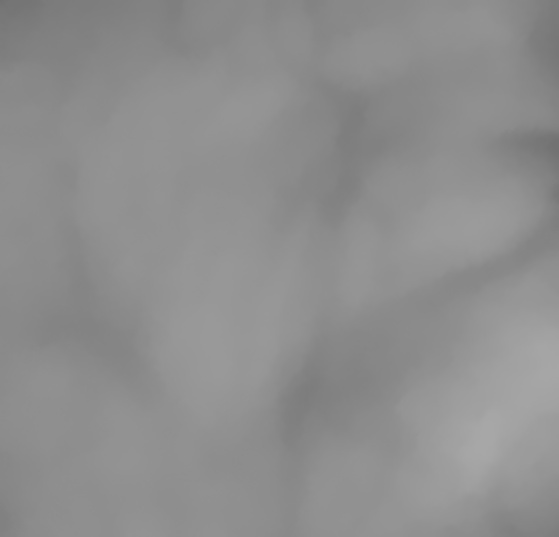
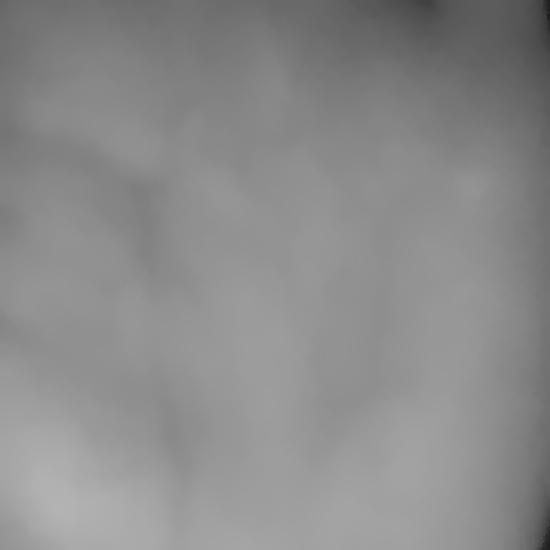
updates

diff --git a/palm.py b/palm.py
@@ -1,58 +1,61 @@
 import cv2
 import numpy as np
 
-img = cv2.imread('image.jpg')
+hand = "left"
 
-# noise
-gray = cv2.cvtColor(img, cv2.COLOR_BGR2GRAY)
-noise = cv2.fastNlMeansDenoising(gray)
-noise = cv2.cvtColor(noise, cv2.COLOR_GRAY2BGR)
-cv2.imwrite("img/noise.jpg", noise)
+for i in range(20):
+    print i
+    img = cv2.imread(hand + 'Edited/' + hand + str(i) + '.jpg')
 
-# equalist hist
-kernel = np.ones((5,5),np.uint8)
-img = cv2.morphologyEx(noise, cv2.MORPH_OPEN, kernel)
-img_yuv = cv2.cvtColor(img, cv2.COLOR_BGR2YUV)
-img_yuv[:,:,0] = cv2.equalizeHist(img_yuv[:,:,0])
-img_output = cv2.cvtColor(img_yuv, cv2.COLOR_YUV2BGR)
-cv2.imwrite("img/equalizeHist.jpg", img_output)
+    # noise
+    gray = cv2.cvtColor(img, cv2.COLOR_BGR2GRAY)
+    noise = cv2.fastNlMeansDenoising(gray)
+    noise = cv2.cvtColor(noise, cv2.COLOR_GRAY2BGR)
+    #cv2.imwrite("img/noise.jpg", noise)
 
-# invert
-inv = cv2.bitwise_not(img_output)
-cv2.imwrite("img/inverted.jpg", inv)
+    # equalist hist
+    kernel = np.ones((7,7),np.uint8)
+    img = cv2.morphologyEx(noise, cv2.MORPH_OPEN, kernel)
+    img_yuv = cv2.cvtColor(img, cv2.COLOR_BGR2YUV)
+    img_yuv[:,:,0] = cv2.equalizeHist(img_yuv[:,:,0])
+    img_output = cv2.cvtColor(img_yuv, cv2.COLOR_YUV2BGR)
+    #cv2.imwrite("img/equalizeHist.jpg", img_output)
 
-# erode
-gray = cv2.cvtColor(inv, cv2.COLOR_BGR2GRAY)
-size = np.size(gray)
-erosion = cv2.erode(gray,kernel,iterations = 1)
-cv2.imwrite("img/eroded.jpg", erosion)
+    # invert
+    inv = cv2.bitwise_not(img_output)
+    #cv2.imwrite("img/inverted.jpg", inv)
 
+    # erode
+    gray = cv2.cvtColor(inv, cv2.COLOR_BGR2GRAY)
+    size = np.size(gray)
+    erosion = cv2.erode(gray,kernel,iterations = 1)
+    #cv2.imwrite("img/eroded.jpg", erosion)
 
-# skel
-img = gray.copy() # don't clobber original
-skel = img.copy()
-skel[:,:] = 0
-kernel = cv2.getStructuringElement(cv2.MORPH_CROSS, (7,7))
-iterations = 0
+    # skel
+    img = gray.copy() # don't clobber original
+    skel = img.copy()
+    skel[:,:] = 0
+    kernel = cv2.getStructuringElement(cv2.MORPH_CROSS, (5,5))
+    iterations = 0
 
-while True:
-    eroded = cv2.morphologyEx(img, cv2.MORPH_ERODE, kernel)
-    temp = cv2.morphologyEx(eroded, cv2.MORPH_DILATE, kernel)
-    temp  = cv2.subtract(img, temp)
-    skel = cv2.bitwise_or(skel, temp)
-    img[:,:] = eroded[:,:]
-    if cv2.countNonZero(img) == 0:
-        break
+    while True:
+        eroded = cv2.morphologyEx(img, cv2.MORPH_ERODE, kernel)
+        temp = cv2.morphologyEx(eroded, cv2.MORPH_DILATE, kernel)
+        temp  = cv2.subtract(img, temp)
+        skel = cv2.bitwise_or(skel, temp)
+        img[:,:] = eroded[:,:]
+        if cv2.countNonZero(img) == 0:
+            break
 
-ret, thr = cv2.threshold(skel, 15,255, cv2.THRESH_BINARY);
+    ret, thr = cv2.threshold(skel, 5,255, cv2.THRESH_BINARY);
 
-cv2.imwrite("img/skel.jpg", skel)
-cv2.imwrite("img/thr.jpg", thr)
+    #cv2.imwrite("img/skel.jpg", skel)
+    cv2.imwrite("leftEdited/thr" + str(i) + ".jpg", thr)
 
-# SIFT
-sift = cv2.xfeatures2d.SURF_create()
-kp = sift.detect(thr,None)
-siftImg = cv2.drawKeypoints(thr,kp, thr)
+    # SIFT
+    #sift = cv2.xfeatures2d.SURF_create()
+    #kp = sift.detect(thr,None)
+    #siftImg = cv2.drawKeypoints(thr,kp, thr)
 
-cv2.imwrite('img/sift.jpg',siftImg)
+    #cv2.imwrite('img/sift.jpg',siftImg)
 

diff --git a/train.py b/train.py
@@ -1,0 +1,27 @@
+import tensorflow as tf
+from tensorflow import keras
+from PIL import Image
+
+import numpy as np
+
+classes = ["left", "right"]
+
+hand = "right"
+train_images = np.array([])
+train_labels = np.array([1]*15)
+
+for i in range(15):
+    pic = Image.open(hand + "Edited/thr" + str(i) + ".jpg")
+    print np.array(pic)
+    #train_images = np.append(train_images, np.array(pic))
+
+test_images = np.array([])
+test_labels = np.array([1]*5)
+
+for i in range(15, 20):
+    pic = Image.open(hand + "Edited/thr" + str(i) + ".jpg")
+    print np.array(pic)
+    #test_images = np.append(test_images, np.array(pic))
+
+print train_images.shape
+print test_images.shape

diff --git a/pics.py b/pics.py
@@ -1,0 +1,11 @@
+import os
+import time
+
+i = 0
+
+while (i < 20):
+    print i
+    cmd = "raspistill -vf -o left" + str(i) + ".jpg"
+    os.system(cmd)
+    i += 1
+
